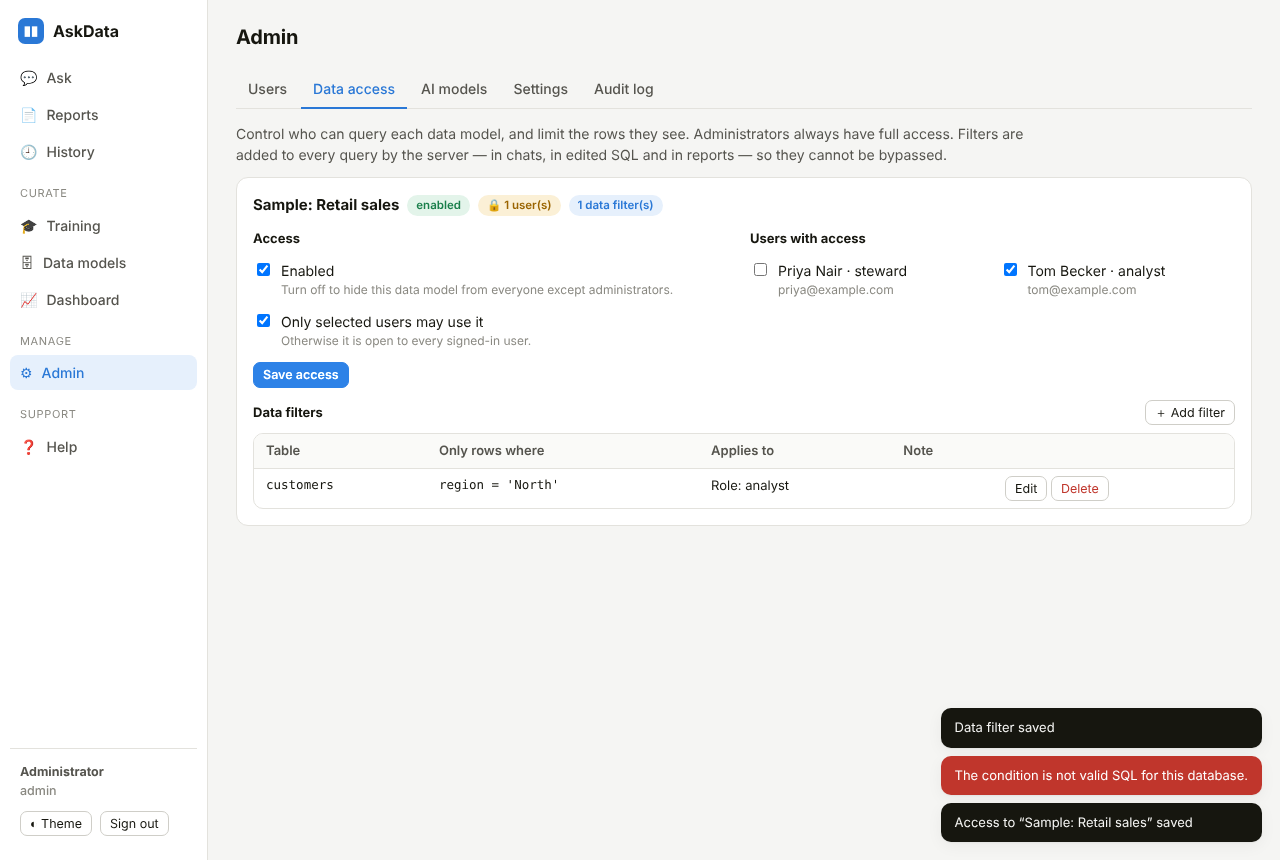
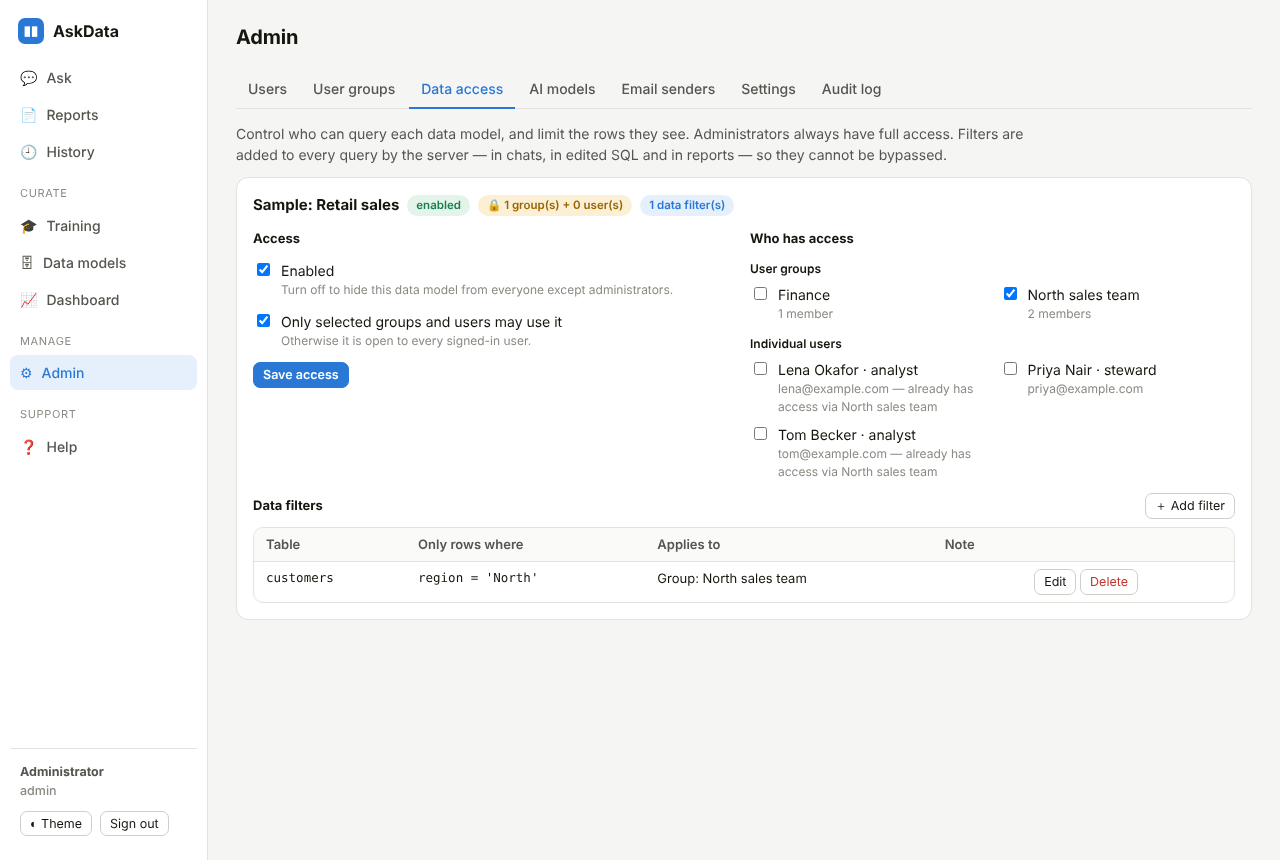
Data-model access and data filters by user group
- Admin > Data access: a restricted data model can be opened to user groups
  as well as individual users; the user list shows who is already covered
  by a ticked group. Membership changes take effect immediately.
- Data filters can be assigned to a group.
- Deleting a group removes its data-model access and filters.
- Help and README updated.

Claude-Session: https://claude.ai/code/session_01Cbo37shq3Kw4uyW2GmsL1T

diff --git a/text2sql/static/js/admin.js b/text2sql/static/js/admin.js
@@ -147,24 +147,30 @@ function accessTab(el) {
       data.connections.length ? data.connections.map(c => card(c, people, data)) : h('div', { class: 'empty' }, 'No data models yet.')));
   }
   function card(c, people, data) {
-    const st = { is_active: c.is_active, restricted: c.restricted, users: new Set(c.user_ids) };
-    const userBox = h('div', { class: 'access-users' });
-    const drawUsers = () => fill(userBox, !st.restricted ? h('div', { class: 'small dim' }, 'Every signed-in user can query this data model.')
-      : people.length ? people.map(u => check(`${u.name}  ·  ${u.role}`, st.users.has(u.id), v => v ? st.users.add(u.id) : st.users.delete(u.id), u.email))
-        : h('div', { class: 'small dim' }, 'There are no non-admin users yet.'));
+    const st = { is_active: c.is_active, restricted: c.restricted, users: new Set(c.user_ids), groups: new Set(c.group_ids) };
+    const userBox = h('div', { class: 'stack' });
+    const viaGroup = u => data.groups.filter(g => st.groups.has(g.id) && g.user_ids.includes(u.id)).map(g => g.name);
+    const drawUsers = () => fill(userBox, !st.restricted ? h('div', { class: 'small dim' }, 'Every signed-in user can query this data model.') : [
+      h('div', {}, h('div', { class: 'small', style: 'font-weight:600;margin-bottom:6px' }, 'User groups'),
+        data.groups.length ? h('div', { class: 'access-users' }, data.groups.map(g => check(g.name, st.groups.has(g.id), v => { v ? st.groups.add(g.id) : st.groups.delete(g.id); drawUsers(); }, `${g.user_ids.length} member${g.user_ids.length === 1 ? '' : 's'}`)))
+          : h('div', { class: 'small dim' }, 'No groups yet — create them on the User groups tab.')),
+      h('div', {}, h('div', { class: 'small', style: 'font-weight:600;margin-bottom:6px' }, 'Individual users'),
+        people.length ? h('div', { class: 'access-users' }, people.map(u => { const via = viaGroup(u);
+          return check(`${u.name}  ·  ${u.role}`, st.users.has(u.id), v => v ? st.users.add(u.id) : st.users.delete(u.id), via.length ? `${u.email} — already has access via ${via.join(', ')}` : u.email); }))
+          : h('div', { class: 'small dim' }, 'There are no non-admin users yet.'))]);
     drawUsers();
     const saveBtn = h('button', { class: 'btn primary sm', onclick: () => busy(saveBtn, async () => {
-      await api('PUT', `/api/admin/access/${c.id}`, { is_active: st.is_active, restricted: st.restricted, user_ids: [...st.users] }); toast(`Access to “${c.name}” saved`); draw();
+      await api('PUT', `/api/admin/access/${c.id}`, { is_active: st.is_active, restricted: st.restricted, user_ids: [...st.users], group_ids: [...st.groups] }); toast(`Access to “${c.name}” saved`); draw();
     }) }, 'Save access');
     return h('div', { class: 'card stack' },
       h('div', { class: 'row wrap' }, h('h2', { style: 'margin:0' }, c.name), c.is_active ? h('span', { class: 'badge good' }, 'enabled') : h('span', { class: 'badge bad' }, 'disabled'),
-        c.restricted ? h('span', { class: 'badge warn' }, `🔒 ${c.user_ids.length} user(s)`) : h('span', { class: 'badge' }, 'open to all users'),
+        c.restricted ? h('span', { class: 'badge warn' }, `🔒 ${c.group_ids.length} group(s) + ${c.user_ids.length} user(s)`) : h('span', { class: 'badge' }, 'open to all users'),
         c.filters.length ? h('span', { class: 'badge info' }, `${c.filters.filter(f => f.enabled).length} data filter(s)`) : null),
       h('div', { class: 'grid2' },
         h('div', { class: 'stack' }, h('h3', {}, 'Access'),
           check('Enabled', st.is_active, v => { st.is_active = v; }, 'Turn off to hide this data model from everyone except administrators.'),
-          check('Only selected users may use it', st.restricted, v => { st.restricted = v; drawUsers(); }, 'Otherwise it is open to every signed-in user.'), h('div', {}, saveBtn)),
-        h('div', { class: 'stack' }, h('h3', {}, 'Users with access'), userBox)),
+          check('Only selected groups and users may use it', st.restricted, v => { st.restricted = v; drawUsers(); }, 'Otherwise it is open to every signed-in user.'), h('div', {}, saveBtn)),
+        h('div', { class: 'stack' }, h('h3', {}, 'Who has access'), userBox)),
       h('div', {}, h('div', { class: 'row' }, h('h3', { style: 'margin:0' }, 'Data filters'), h('span', { class: 'spacer' }), h('button', { class: 'btn sm', onclick: () => editFilter(c, null, data) }, '＋ Add filter')),
         c.filters.length ? h('div', { class: 'tbl-wrap', style: 'margin-top:8px;max-height:none' }, h('table', { class: 'tbl' },
           h('thead', {}, h('tr', {}, ['Table', 'Only rows where', 'Applies to', 'Note', ''].map(t => h('th', {}, t)))),
@@ -177,10 +183,11 @@ function accessTab(el) {
     const table = h('input', { type: 'text', value: f?.table_name || '', list: 'filter-tables', placeholder: 'e.g. customers' });
     const cond = h('textarea', { class: 'mono', style: 'min-height:70px', placeholder: "region = 'North'" }, f?.condition || '');
     const note = h('input', { type: 'text', value: f?.description || '', placeholder: 'Optional: why this filter exists' });
-    const st = { scope: f?.scope || 'role', role: f?.role || 'analyst', user_id: f?.user_id || '' };
+    const st = { scope: f?.scope || 'role', role: f?.role || 'analyst', user_id: f?.user_id || '', group_id: f?.group_id || '' };
     const who = h('div', { class: 'row wrap' });
-    const drawWho = () => fill(who, select([['all', 'Everyone (except administrators)'], ['role', 'Everyone with the role…'], ['user', 'One person…']], st.scope, v => { st.scope = v; drawWho(); }, { class: 'inline' }),
+    const drawWho = () => fill(who, select([['all', 'Everyone (except administrators)'], ['role', 'Everyone with the role…'], ['group', 'Everyone in the user group…'], ['user', 'One person…']], st.scope, v => { st.scope = v; drawWho(); }, { class: 'inline' }),
       st.scope === 'role' ? select(ROLE, st.role, v => { st.role = v; }, { class: 'inline' }) : null,
+      st.scope === 'group' ? select([['', 'choose…'], ...data.groups.map(g => [g.id, `${g.name} (${g.user_ids.length})`])], st.group_id, v => { st.group_id = v; }, { class: 'inline' }) : null,
       st.scope === 'user' ? select([['', 'choose…'], ...data.users.filter(u => u.role !== 'admin').map(u => [u.id, `${u.name} (${u.email})`])], st.user_id, v => { st.user_id = v; }, { class: 'inline' }) : null);
     drawWho();
     const on = check('Filter is active', f ? f.enabled : true);
@@ -190,9 +197,9 @@ function accessTab(el) {
       h('div', { class: 'small dim' }, 'Examples: ', h('span', { class: 'mono' }, "region = 'North'"), ' · ', h('span', { class: 'mono' }, "country IN ('IN', 'AE')"), ' · ', h('span', { class: 'mono' }, 'sales_rep_email = {user_email}'),
         h('br'), 'Placeholders filled in with the signed-in person’s details: ', h('span', { class: 'mono' }, data.placeholders.join('  ')), '.'),
       field('Applies to', who), field('Note', note), on,
-      h('div', { class: 'banner info small' }, 'If several filters on the same table apply to someone (for example one for their role and one for them personally) they must satisfy all of them. To filter a table that links to this one (for example orders of North-region customers), add a filter on that table too, or rely on the join: rows are only removed from the table named here.')), {
+      h('div', { class: 'banner info small' }, 'If several filters on the same table apply to someone (for example one for their role, one for a group they are in and one for them personally) they must satisfy all of them. To filter a table that links to this one (for example orders of North-region customers), add a filter on that table too, or rely on the join: rows are only removed from the table named here.')), {
       wide: true, actions: close => [h('button', { class: 'btn', onclick: close }, 'Cancel'), h('button', { class: 'btn primary', onclick: e => busy(e.target, async () => {
-        const body = { connection_id: c.id, table_name: table.value, condition: cond.value, scope: st.scope, role: st.role, user_id: st.user_id ? Number(st.user_id) : null, description: note.value, enabled: on.input.checked };
+        const body = { connection_id: c.id, table_name: table.value, condition: cond.value, scope: st.scope, role: st.role, user_id: st.user_id ? Number(st.user_id) : null, group_id: st.group_id ? Number(st.group_id) : null, description: note.value, enabled: on.input.checked };
         await (f ? api('PUT', `/api/admin/filters/${f.id}`, body) : api('POST', '/api/admin/filters', body)); close(); toast('Data filter saved'); draw();
       }) }, 'Save filter')] });
   }
@@ -228,7 +235,7 @@ function groupsTab(el) {
           g.description ? h('div', { class: 'muted small' }, g.description) : null,
           h('div', { class: 'small dim', style: 'margin-top:4px' }, g.user_ids.map(name).filter(Boolean).join(', ') || 'No members yet')),
         h('button', { class: 'btn sm', onclick: () => edit(g) }, 'Edit'),
-        h('button', { class: 'btn sm danger', onclick: async () => { if (await confirmDialog('Delete group?', `“${g.name}” will be removed. Reports shared with it stop being shared with its members; schedules stop emailing it. The users themselves are not affected.`, 'Delete')) { await api('DELETE', `/api/admin/groups/${g.id}`).catch(fail); draw(); } } }, 'Delete'))))
+        h('button', { class: 'btn sm danger', onclick: async () => { if (await confirmDialog('Delete group?', `“${g.name}” will be removed. Reports shared with it stop being shared with its members, schedules stop emailing it, and data-model access and data filters given to the group are removed. Check Data access afterwards: a member who still has access another way will no longer be limited by the group’s filters. The users themselves are not deleted.`, 'Delete')) { await api('DELETE', `/api/admin/groups/${g.id}`).catch(fail); draw(); } } }, 'Delete'))))
         : h('div', { class: 'empty' }, 'No groups yet.')));
   }
   draw().catch(fail);

diff --git a/text2sql/static/help/help.html b/text2sql/static/help/help.html
@@ -404,7 +404,7 @@ GRANT SELECT ON ALL TABLES IN SCHEMA db.public TO ROLE askdata_ro;</pre>
 
 <section id="groups" data-title="User groups (admin)" data-role="Administrators">
 <h2>User groups</h2>
-<p><b>Admin → User groups.</b> A group is a named list of users — a team, a department, a management layer. Groups are used in two places: a report can be <b>shared</b> with a group, and a scheduled report can be <b>emailed</b> to a group.</p>
+<p><b>Admin → User groups.</b> A group is a named list of users — a team, a department, a management layer. Groups are used in three places: a group can be given <b>access to a data model</b> (and its own data filters), a report can be <b>shared</b> with a group, and a scheduled report can be <b>emailed</b> to a group.</p>
 <figure><img src="/static/help/img/groups.png" alt="The User groups tab listing a group and its members"><figcaption>Admin → User groups.</figcaption></figure>
 <ol>
 <li>Press <b>＋ New group</b>, give it a name and an optional description.</li>
@@ -414,8 +414,8 @@ GRANT SELECT ON ALL TABLES IN SCHEMA db.public TO ROLE askdata_ro;</pre>
 <ul>
 <li>A user can belong to any number of groups.</li>
 <li>Changing a group's members takes effect immediately: new members can open reports shared with the group and receive its scheduled emails from the next run; removed members stop.</li>
-<li>Deleting a group removes the sharing and schedule entries that pointed at it. The users themselves are not affected.</li>
-<li>Groups do not grant access to data. What each member sees is still decided by <a href="#/help/access">Data access</a>.</li>
+<li>Deleting a group removes the report sharing, schedule entries, data-model access and data filters that pointed at it. The users themselves are not deleted. Afterwards check Data access: a former member who still has access another way is no longer limited by the deleted group's filters.</li>
+<li>A group on its own grants nothing. Give it access to data models, and limit the rows its members see, on the <a href="#/help/access">Data access</a> tab.</li>
 </ul>
 </section>
 
@@ -476,8 +476,14 @@ GRANT SELECT ON ALL TABLES IN SCHEMA db.public TO ROLE askdata_ro;</pre>
 <table>
 <tr><th>Setting</th><th>Effect</th></tr>
 <tr><td>Enabled</td><td>Untick to switch the data model off for everyone except administrators. Nothing is deleted.</td></tr>
-<tr><td>Only selected users may use it</td><td>Unticked: every signed-in user can query it. Ticked: only the people you tick under <i>Users with access</i>.</td></tr>
+<tr><td>Only selected groups and users may use it</td><td>Unticked: every signed-in user can query it. Ticked: only the <b>user groups</b> and <b>individual users</b> you tick under <i>Who has access</i>.</td></tr>
 </table>
+<p><b>Giving access to a group:</b> tick <i>Only selected groups and users may use it</i>, tick the group under <i>User groups</i>, and press <b>Save access</b>. Every member of the group can then use the data model. Groups are created on the <a href="#/help/groups">User groups</a> tab.</p>
+<ul>
+<li>A person has access if they are ticked individually <b>or</b> belong to any ticked group. The list of individual users shows “already has access via …” next to people covered by a ticked group.</li>
+<li>Adding someone to the group gives them access straight away; removing them takes it away (unless they are also ticked individually or are in another ticked group).</li>
+<li>To give a whole team access, prefer a group over ticking people one by one — joiners and leavers are then handled in one place.</li>
+</ul>
 <p>Press <b>Save access</b>. Changes apply to the user's very next question, and to every report: a result from a data model someone can no longer use is hidden from them.</p>
 <h3>Data filters — limiting the rows people see</h3>
 <p>A data filter is a condition on one table. Whenever a person it applies to runs a query that touches that table, they only get the rows that meet the condition.</p>
@@ -486,7 +492,7 @@ GRANT SELECT ON ALL TABLES IN SCHEMA db.public TO ROLE askdata_ro;</pre>
 <tr><th>Field</th><th>Meaning</th><th>Example</th></tr>
 <tr><td>Table</td><td>The table the rule is about.</td><td><code>customers</code></td></tr>
 <tr><td>Only show rows where</td><td>A condition on that table's columns — what you would write after WHERE.</td><td><code>region = 'North'</code></td></tr>
-<tr><td>Applies to</td><td>Everyone (except administrators), everyone with a role, or one person.</td><td>Role: analysts</td></tr>
+<tr><td>Applies to</td><td>Everyone (except administrators), everyone with a role, everyone in a user group, or one person.</td><td>Group: North sales team</td></tr>
 <tr><td>Filter is active</td><td>Untick to suspend it without deleting.</td><td></td></tr>
 </table>
 <p><b>Per-person rules without one filter per person:</b> use a placeholder that is replaced by the signed-in person's own details.</p>
@@ -500,7 +506,8 @@ GRANT SELECT ON ALL TABLES IN SCHEMA db.public TO ROLE askdata_ro;</pre>
 <ul>
 <li>The <b>server</b> applies them, not the AI model. Before any query runs, every mention of a filtered table is swapped for “that table, limited to the allowed rows”. This happens for model-written SQL, SQL the user edits by hand, and reports.</li>
 <li>The SQL shown to the user stays as written; a “🔒 Your data filters are applied” badge appears on the result.</li>
-<li>If <b>several filters</b> on the same table apply to someone (say one for their role and one for them personally), they must satisfy <b>all</b> of them.</li>
+<li>If <b>several filters</b> on the same table apply to someone (say one for their role, one for a group they belong to and one for them personally), they must satisfy <b>all</b> of them. Someone in two groups that each have a filter on the same table sees only rows allowed by both.</li>
+<li>A group filter follows membership: it applies to people while they are in the group.</li>
 <li><b>Administrators are never filtered.</b></li>
 <li>A filter removes rows from the table it names. Queries that join to that table inherit the limit through the join — orders joined to North-only customers give North-only orders. A query on <code>orders</code> alone is not limited by a filter on <code>customers</code>; if orders must be limited too, add a filter on <code>orders</code> (for example <code>region_code = 'N'</code>).</li>
 <li>A query the server cannot analyse with certainty is refused for filtered users rather than run unfiltered.</li>

diff --git a/text2sql/app/routers/admin.py b/text2sql/app/routers/admin.py
@@ -10,7 +10,7 @@ from sqlalchemy.orm import Session
 from .. import config, llm, mailer, rowfilter, security
 from ..db import get_db
 from ..deps import admin_only, audit, get_settings
-from ..models import (ROLES, AuditLog, Connection, ConnectionAccess, DataFilter, EmailLog, EmailSender, LLMModel,
+from ..models import (ROLES, AuditLog, Connection, ConnectionAccess, ConnectionGroupAccess, DataFilter, EmailLog, EmailSender, LLMModel,
                       Setting, User, UserGroup, UserGroupMember)
 
 router = APIRouter(prefix="/api/admin", tags=["admin"])
@@ -454,6 +454,8 @@ def delete_group(group_id: int, request: Request, admin: User = Depends(admin_on
         raise HTTPException(404, "Not found")
     from ..models import ReportShare
     db.execute(delete(ReportShare).where(ReportShare.scope == "group", ReportShare.group_id == g.id))
+    db.execute(delete(ConnectionGroupAccess).where(ConnectionGroupAccess.group_id == g.id))
+    db.execute(delete(DataFilter).where(DataFilter.scope == "group", DataFilter.group_id == g.id))
     audit(db, request, admin, "group.deleted", g.name)
     db.delete(g)
     db.commit()
@@ -465,24 +467,27 @@ class AccessIn(BaseModel):
     is_active: bool
     restricted: bool
     user_ids: list[int] = []
+    group_ids: list[int] = []
 
 
 class FilterIn(BaseModel):
     connection_id: int
     table_name: str
     condition: str
-    scope: str = "all"              # all | role | user
+    scope: str = "all"              # all | role | group | user
     role: str = ""
     user_id: int | None = None
+    group_id: int | None = None
     description: str = ""
     enabled: bool = True
 
 
-def _filter(f: DataFilter, users: dict) -> dict:
+def _filter(f: DataFilter, users: dict, groups: dict | None = None) -> dict:
     who = "Everyone except administrators" if f.scope == "all" else f"Role: {f.role}" if f.scope == "role" \
+        else f"Group: {(groups or {}).get(f.group_id, '(deleted)')}" if f.scope == "group" \
         else f"User: {users.get(f.user_id, '(deleted)')}"
     return {"id": f.id, "connection_id": f.connection_id, "table_name": f.table_name, "condition": f.condition,
-            "scope": f.scope, "role": f.role, "user_id": f.user_id, "description": f.description,
+            "scope": f.scope, "role": f.role, "user_id": f.user_id, "group_id": f.group_id, "description": f.description,
             "enabled": f.enabled, "applies_to": who}
 
 
@@ -493,15 +498,25 @@ def access_overview(_: User = Depends(admin_only), db: Session = Depends(get_db)
     grants: dict = {}
     for a in db.scalars(select(ConnectionAccess)):
         grants.setdefault(a.connection_id, []).append(a.user_id)
+    group_grants: dict = {}
+    for a in db.scalars(select(ConnectionGroupAccess)):
+        group_grants.setdefault(a.connection_id, []).append(a.group_id)
+    members: dict = {}
+    for m in db.scalars(select(UserGroupMember)):
+        members.setdefault(m.group_id, []).append(m.user_id)
+    all_groups = list(db.scalars(select(UserGroup).order_by(UserGroup.name)))
+    group_names = {g.id: g.name for g in all_groups}
     filters: dict = {}
     for f in db.scalars(select(DataFilter).order_by(DataFilter.table_name, DataFilter.id)):
-        filters.setdefault(f.connection_id, []).append(_filter(f, names))
+        filters.setdefault(f.connection_id, []).append(_filter(f, names, group_names))
     return {
         "users": [{"id": u.id, "name": u.name or u.email, "email": u.email, "role": u.role, "is_active": u.is_active}
                   for u in users.values()],
         "placeholders": list(rowfilter.PLACEHOLDERS),
+        "groups": [{"id": g.id, "name": g.name, "user_ids": members.get(g.id, [])} for g in all_groups],
         "connections": [{"id": c.id, "name": c.name, "db_type": c.db_type, "is_active": c.is_active,
                          "restricted": c.restricted, "user_ids": grants.get(c.id, []),
+                         "group_ids": [g for g in group_grants.get(c.id, []) if g in group_names],
                          "tables": sorted({t["name"] for t in (c.schema_json or {}).get("tables", [])}),
                          "filters": filters.get(c.id, [])}
                         for c in db.scalars(select(Connection).order_by(Connection.name))]}
@@ -518,8 +533,12 @@ def set_access(conn_id: int, body: AccessIn, request: Request, admin: User = Dep
     for uid in set(body.user_ids):
         if db.get(User, uid):
             db.add(ConnectionAccess(connection_id=conn_id, user_id=uid))
+    db.execute(delete(ConnectionGroupAccess).where(ConnectionGroupAccess.connection_id == conn_id))
+    for gid in set(body.group_ids):
+        if db.get(UserGroup, gid):
+            db.add(ConnectionGroupAccess(connection_id=conn_id, group_id=gid))
     audit(db, request, admin, "connection.access_changed", c.name,
-          f"enabled={c.is_active} restricted={c.restricted} users={len(set(body.user_ids))}")
+          f"enabled={c.is_active} restricted={c.restricted} users={len(set(body.user_ids))} groups={len(set(body.group_ids))}")
     db.commit()
     return {"ok": True}
 
@@ -530,8 +549,10 @@ def _apply_filter(f: DataFilter, body: FilterIn, db: Session):
         raise HTTPException(404, "Data model not found")
     if not body.table_name.strip():
         raise HTTPException(400, "Choose the table the filter applies to.")
-    if body.scope not in ("all", "role", "user"):
+    if body.scope not in ("all", "role", "group", "user"):
         raise HTTPException(400, "Unknown scope.")
+    if body.scope == "group" and not (body.group_id and db.get(UserGroup, body.group_id)):
+        raise HTTPException(400, "Choose the user group.")
     if body.scope == "role" and body.role not in ("analyst", "steward"):
         raise HTTPException(400, "Choose the role (analyst or steward). Administrators are never filtered.")
     if body.scope == "user" and not (body.user_id and db.get(User, body.user_id)):
@@ -543,6 +564,7 @@ def _apply_filter(f: DataFilter, body: FilterIn, db: Session):
     f.connection_id, f.table_name, f.condition = conn.id, body.table_name.strip(), body.condition.strip()
     f.scope, f.role = body.scope, body.role if body.scope == "role" else ""
     f.user_id = body.user_id if body.scope == "user" else None
+    f.group_id = body.group_id if body.scope == "group" else None
     f.description, f.enabled = body.description.strip()[:500], body.enabled
     return conn
 

diff --git a/text2sql/tests/test_reports.py b/text2sql/tests/test_reports.py
@@ -252,6 +252,45 @@ def test_senders_groups_schedule_and_email(people):
         a.delete(f"/api/admin/senders/{x['id']}", headers=H)
 
 
+def test_data_model_access_and_filters_by_group(admin):
+    client, conn, model = admin
+    kim, kim_id = _login(client, "kim@test.local", name="Kim")
+    lee, lee_id = _login(client, "lee@test.local", name="Lee")
+    g = client.post("/api/admin/groups", headers=H, json={"name": "West desk", "user_ids": [kim_id]}).json()["id"]
+    sees = lambda u: conn in [c["id"] for c in u.get("/api/connections").json()]      # noqa: E731
+
+    # restricted to the group: members get in, others do not; membership changes apply at once
+    client.put(f"/api/admin/access/{conn}", headers=H, json={"is_active": True, "restricted": True, "group_ids": [g]})
+    assert sees(kim) and not sees(lee)
+    card = next(c for c in client.get("/api/admin/access").json()["connections"] if c["id"] == conn)
+    assert card["group_ids"] == [g] and card["user_ids"] == []
+    client.put(f"/api/admin/groups/{g}", headers=H, json={"name": "West desk", "user_ids": [kim_id, lee_id]})
+    assert sees(lee)
+    assert ask(lee, conn, model, "count the orders")["run"]["status"] == "success"
+
+    # a data filter for the group
+    bad = client.post("/api/admin/filters", headers=H, json={"connection_id": conn, "table_name": "customers",
+                                                             "condition": "region = 'West'", "scope": "group"})
+    assert bad.status_code == 400
+    f = client.post("/api/admin/filters", headers=H, json={"connection_id": conn, "table_name": "customers",
+                                                           "condition": "region = 'West'", "scope": "group", "group_id": g}).json()["id"]
+    shown = next(c for c in client.get("/api/admin/access").json()["connections"] if c["id"] == conn)["filters"]
+    assert [x["applies_to"] for x in shown if x["id"] == f] == ["Group: West desk"]
+    assert _regions(ask(kim, conn, model, "revenue and orders by region")["run"]) == {"West"}
+    client.put(f"/api/admin/groups/{g}", headers=H, json={"name": "West desk", "user_ids": [lee_id]})
+    assert not sees(kim)                                    # removed from the group: access gone
+    client.put(f"/api/admin/access/{conn}", headers=H, json={"is_active": True, "restricted": True, "group_ids": [g], "user_ids": [kim_id]})
+    assert len(_regions(ask(kim, conn, model, "revenue and orders by region")["run"])) == 4      # individual access, not in the group: unfiltered
+    assert _regions(ask(lee, conn, model, "revenue and orders by region")["run"]) == {"West"}
+
+    # deleting the group removes its access and its filters
+    client.delete(f"/api/admin/groups/{g}", headers=H)
+    assert not sees(lee) and sees(kim)
+    after = next(c for c in client.get("/api/admin/access").json()["connections"] if c["id"] == conn)
+    assert after["group_ids"] == [] and all(x["id"] != f for x in after["filters"])
+    client.put(f"/api/admin/access/{conn}", headers=H, json={"is_active": True, "restricted": False})
+
+
 def test_side_by_side_layout_in_pdf(admin):
     """Components given half / third width sit next to each other on the page."""
     from pypdf import PdfReader

diff --git a/text2sql/app/models.py b/text2sql/app/models.py
@@ -57,6 +57,15 @@ class ConnectionAccess(Base):
     user_id: Mapped[int] = mapped_column(ForeignKey("users.id", ondelete="CASCADE"), index=True)
 
 
+class ConnectionGroupAccess(Base):
+    """A user group that may use a restricted data model."""
+    __tablename__ = "connection_group_access"
+    __table_args__ = (UniqueConstraint("connection_id", "group_id"),)
+    id: Mapped[int] = mapped_column(primary_key=True)
+    connection_id: Mapped[int] = mapped_column(ForeignKey("connections.id", ondelete="CASCADE"), index=True)
+    group_id: Mapped[int] = mapped_column(Integer, index=True)
+
+
 class TrainingItem(Base):
     __tablename__ = "training_items"
     id: Mapped[int] = mapped_column(primary_key=True)
@@ -164,8 +173,9 @@ class DataFilter(Base):
     connection_id: Mapped[int] = mapped_column(ForeignKey("connections.id", ondelete="CASCADE"), index=True)
     table_name: Mapped[str] = mapped_column(String(255))
     condition: Mapped[str] = mapped_column(Text)                       # SQL boolean expression on that table
-    scope: Mapped[str] = mapped_column(String(10), default="all")      # all | role | user
+    scope: Mapped[str] = mapped_column(String(10), default="all")      # all | role | group | user
     role: Mapped[str] = mapped_column(String(20), default="")
+    group_id: Mapped[Optional[int]] = mapped_column(Integer, nullable=True)
     user_id: Mapped[Optional[int]] = mapped_column(ForeignKey("users.id", ondelete="CASCADE"), nullable=True)
     description: Mapped[str] = mapped_column(String(500), default="")
     enabled: Mapped[bool] = mapped_column(Boolean, default=True)

diff --git a/text2sql/app/rowfilter.py b/text2sql/app/rowfilter.py
@@ -11,7 +11,7 @@ import sqlglot
 from sqlalchemy import or_, select
 from sqlglot import exp
 
-from .models import DataFilter
+from .models import DataFilter, UserGroupMember
 from .sqlguard import _FORBIDDEN_FUNCS, SQLGLOT_DIALECT, Checked, SQLBlocked, _func_names
 
 PLACEHOLDERS = ("{user_email}", "{user_name}", "{user_id}")
@@ -20,11 +20,14 @@ PLACEHOLDERS = ("{user_email}", "{user_name}", "{user_id}")
 def applicable(db, user, conn) -> list[DataFilter]:
     if user.role == "admin":
         return []
+    groups = list(db.scalars(select(UserGroupMember.group_id).where(UserGroupMember.user_id == user.id)))
+    who = [DataFilter.scope == "all",
+           (DataFilter.scope == "role") & (DataFilter.role == user.role),
+           (DataFilter.scope == "user") & (DataFilter.user_id == user.id)]
+    if groups:
+        who.append((DataFilter.scope == "group") & DataFilter.group_id.in_(groups))
     return list(db.scalars(select(DataFilter).where(
-        DataFilter.connection_id == conn.id, DataFilter.enabled,
-        or_(DataFilter.scope == "all",
-            (DataFilter.scope == "role") & (DataFilter.role == user.role),
-            (DataFilter.scope == "user") & (DataFilter.user_id == user.id)))))
+        DataFilter.connection_id == conn.id, DataFilter.enabled, or_(*who))))
 
 
 def _lit(value) -> str:

diff --git a/text2sql/app/deps.py b/text2sql/app/deps.py
@@ -5,7 +5,7 @@ from sqlalchemy.orm import Session
 
 from . import config, security
 from .db import get_db
-from .models import AuditLog, Connection, ConnectionAccess, Setting, User
+from .models import AuditLog, Connection, ConnectionAccess, ConnectionGroupAccess, Setting, User, UserGroupMember
 
 
 def get_settings(db: Session) -> dict:
@@ -71,8 +71,13 @@ def can_use(db: Session, user: User, conn: Connection) -> bool:
         return False
     if not conn.restricted:
         return True
-    return db.scalar(select(ConnectionAccess.id).where(
-        ConnectionAccess.connection_id == conn.id, ConnectionAccess.user_id == user.id)) is not None
+    if db.scalar(select(ConnectionAccess.id).where(
+            ConnectionAccess.connection_id == conn.id, ConnectionAccess.user_id == user.id)) is not None:
+        return True
+    # ...or through any user group they belong to
+    return db.scalar(select(ConnectionGroupAccess.id).join(
+        UserGroupMember, UserGroupMember.group_id == ConnectionGroupAccess.group_id).where(
+        ConnectionGroupAccess.connection_id == conn.id, UserGroupMember.user_id == user.id)) is not None
 
 
 def get_connection(db: Session, user: User, conn_id: int) -> Connection:

diff --git a/text2sql/README.md b/text2sql/README.md
@@ -43,8 +43,8 @@ answers a few questions about the sample data (add it as a *Self-hosted* model, 
 | **Follow-ups & history** | Suggested follow-up questions; conversations keep context (earlier questions + SQL); chats and results are saved, searchable, renamable and grouped by date. |
 | **Reports** | Drag-and-drop designer: place results from any number of chats (chart, table, summary each optional), headings, text, dividers and page breaks; set widths (full, ⅔, ½, ⅓) to put objects side by side; header, footer and page numbers. Stores queries, not data: refreshed live for whoever opens it. Live text placeholders. PDF export with the same layout. Share with user groups, roles or people (view / edit). Schedule daily / weekdays / weekly / monthly and email the PDF to groups, any number of people and outside addresses — each account holder receives a copy rendered with their own data access. |
 | **Email senders** | Admin → Email senders: one or more mailboxes with provider presets (Titan / GoDaddy, Google, Microsoft 365, Zoho, any SMTP), Verify, Send test, simulation mode, default sender, and an email log. |
-| **User groups** | Admin → User groups: named lists of users for sharing and emailing reports. |
-| **Data access & filters** | Admin → Data access: enable / disable a data model, open it to all or to selected users, and add row-level filters (`region = 'North'`, `rep_email = {user_email}`) per user, per role or for everyone. Filters are applied by the server to every query — model-written, hand-edited or in a report. |
+| **User groups** | Admin → User groups: named lists of users, used for data-model access, data filters, and sharing and emailing reports. |
+| **Data access & filters** | Admin → Data access: enable / disable a data model, open it to all or to selected user groups and users, and add row-level filters (`region = 'North'`, `rep_email = {user_email}`) per user, per group, per role or for everyone. Filters are applied by the server to every query — model-written, hand-edited or in a report. |
 | **Help** | Built-in Help page for users, stewards and administrators with screenshots, search and print (`static/help/help.html`). |
 | **Security** | TOTP two-factor authentication with recovery codes (optional or enforced org-wide), bcrypt passwords with policy, account lockout, session revocation, roles, per-data-model access, CSRF protection, security headers, full audit log. |
 | **Admin** | Users (roles, reset password / 2FA, unlock), AI models, settings (row limit, timeout, rate limit, 2FA enforcement, feedback mode, result retention), audit log with CSV export. |
